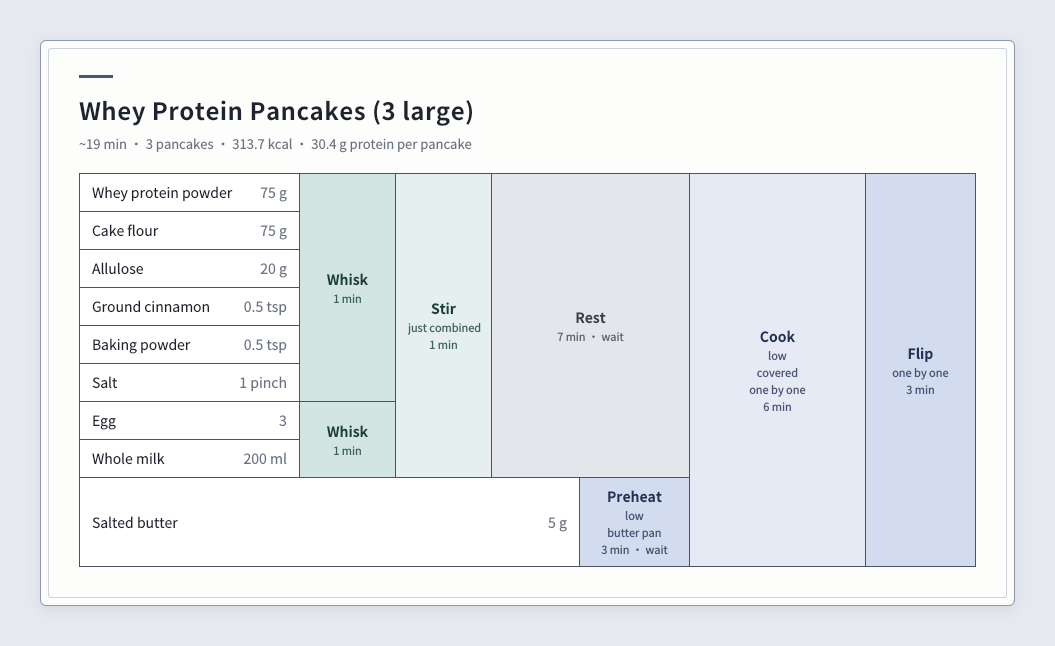
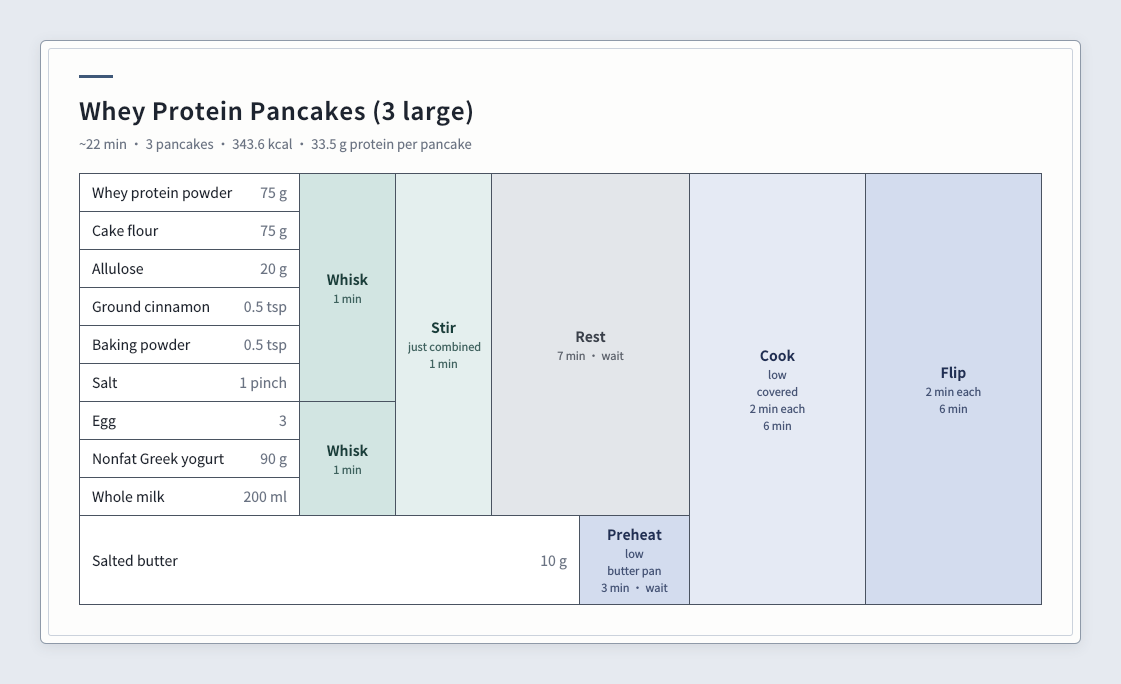
Large pancake: add 90 g yogurt, 10 g butter, 2 min per side
Claude-Session: https://claude.ai/code/session_01QTuuncf3o8J9F6xQdQUiuV

diff --git a/recipes/breakfast/protein-pancake-large.md b/recipes/breakfast/protein-pancake-large.md
@@ -1,10 +1,10 @@
 # 乳清蛋白松饼(三大张)
 
-约 19 分钟 · 3 张 · 每张 313.7 kcal · 蛋白质 30.4 g
+约 22 分钟 · 3 张 · 每张 343.6 kcal · 蛋白质 33.5 g
 
 ## 配方表
 
-<table class="cfe"><colgroup><col style="width:150px"><col style="width:96px"><col style="width:96px"><col style="width:88px"><col style="width:110px"><col style="width:176px"><col style="width:110px"></colgroup><tr><td colspan="1">乳清蛋白粉 <b>75 g</b></td><td rowspan="6" colspan="1">拌匀<br><sub>1 min</sub></td><td rowspan="8" colspan="1">拌合<br><sub>无干粉即停</sub><br><sub>1 min</sub></td><td rowspan="8" colspan="2">静置<br><sub>7 min · 等待</sub></td><td rowspan="9" colspan="1">煎<br><sub>小火</sub><br><sub>加盖</sub><br><sub>逐张</sub><br><sub>6 min</sub></td><td rowspan="9" colspan="1">翻面<br><sub>逐张</sub><br><sub>3 min</sub></td></tr><tr><td colspan="1">低筋面粉 <b>75 g</b></td></tr><tr><td colspan="1">阿洛酮糖 <b>20 g</b></td></tr><tr><td colspan="1">肉桂粉 <b>0.5 tsp</b></td></tr><tr><td colspan="1">泡打粉 <b>0.5 tsp</b></td></tr><tr><td colspan="1">盐 <b>1 撮</b></td></tr><tr><td colspan="1">鸡蛋 <b>3 个</b></td><td rowspan="2" colspan="1">搅匀<br><sub>1 min</sub></td></tr><tr><td colspan="1">全脂牛奶 <b>200 ml</b></td></tr><tr><td colspan="4">含盐黄油 <b>5 g</b></td><td rowspan="1" colspan="1">热锅<br><sub>小火</sub><br><sub>抹黄油</sub><br><sub>3 min · 等待</sub></td></tr></table>
+<table class="cfe"><colgroup><col style="width:155px"><col style="width:96px"><col style="width:96px"><col style="width:88px"><col style="width:110px"><col style="width:176px"><col style="width:176px"></colgroup><tr><td colspan="1">乳清蛋白粉 <b>75 g</b></td><td rowspan="6" colspan="1">拌匀<br><sub>1 min</sub></td><td rowspan="9" colspan="1">拌合<br><sub>无干粉即停</sub><br><sub>1 min</sub></td><td rowspan="9" colspan="2">静置<br><sub>7 min · 等待</sub></td><td rowspan="10" colspan="1">煎<br><sub>小火</sub><br><sub>加盖</sub><br><sub>逐张 2 分钟</sub><br><sub>6 min</sub></td><td rowspan="10" colspan="1">翻面<br><sub>逐张 2 分钟</sub><br><sub>6 min</sub></td></tr><tr><td colspan="1">低筋面粉 <b>75 g</b></td></tr><tr><td colspan="1">阿洛酮糖 <b>20 g</b></td></tr><tr><td colspan="1">肉桂粉 <b>0.5 tsp</b></td></tr><tr><td colspan="1">泡打粉 <b>0.5 tsp</b></td></tr><tr><td colspan="1">盐 <b>1 撮</b></td></tr><tr><td colspan="1">鸡蛋 <b>3 个</b></td><td rowspan="3" colspan="1">搅匀<br><sub>1 min</sub></td></tr><tr><td colspan="1">脱脂希腊酸奶 <b>90 g</b></td></tr><tr><td colspan="1">全脂牛奶 <b>200 ml</b></td></tr><tr><td colspan="4">含盐黄油 <b>10 g</b></td><td rowspan="1" colspan="1">热锅<br><sub>小火</sub><br><sub>抹黄油</sub><br><sub>3 min · 等待</sub></td></tr></table>
 
 ## 时间线
 
@@ -19,16 +19,16 @@ todayMarker off
   静置 :done, rest, 03, 7m
   热锅 :done, heat, 07, 3m
   煎 :fry, 10, 6m
-  翻面 :flip, 16, 3m
+  翻面 :flip, 16, 6m
 ```
 
 ## 营养成分
 
 | 项目 | 每张 | 整份（3张） |
 |---|---:|---:|
-| 热量（kcal） | 313.7 | 941.1 |
-| 蛋白质（g） | 30.4 | 91.2 |
-| 碳水（g） | 25.9 | 77.7 |
-| 脂肪（g） | 9.0 | 27.0 |
+| 热量（kcal） | 343.6 | 1030.8 |
+| 蛋白质（g） | 33.5 | 100.5 |
+| 碳水（g） | 27.1 | 81.3 |
+| 脂肪（g） | 10.3 | 30.9 |
 | 膳食纤维（g） | 0.7 | 2.1 |
-| 钠（mg） | 367.4 | 1102.2 |
+| 钠（mg） | 388.0 | 1164.0 |

diff --git a/README.md b/README.md
@@ -8,7 +8,7 @@
 | 菜谱 | 分类 | 每份 |
 |---|---|---|
 | [高蛋白法式吐司](recipes/breakfast/protein-french-toast.md) | breakfast | 200.5 kcal · 19.8 g 蛋白质 / 片 |
-| [乳清蛋白松饼(三大张)](recipes/breakfast/protein-pancake-large.md) | breakfast | 313.7 kcal · 30.4 g 蛋白质 / 张 |
+| [乳清蛋白松饼(三大张)](recipes/breakfast/protein-pancake-large.md) | breakfast | 343.6 kcal · 33.5 g 蛋白质 / 张 |
 | [乳清蛋白松饼](recipes/breakfast/protein-pancake.md) | breakfast | 315.0 kcal · 34.6 g 蛋白质 / 份 |
 <!-- index:end -->
 
